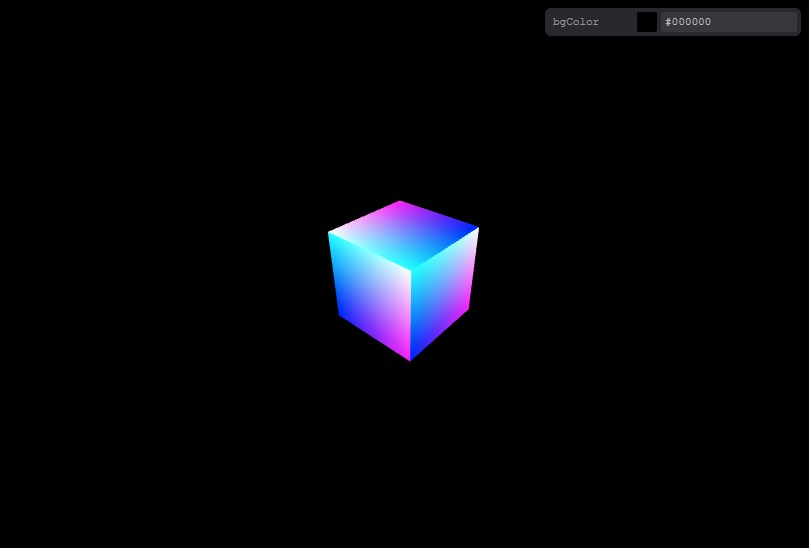
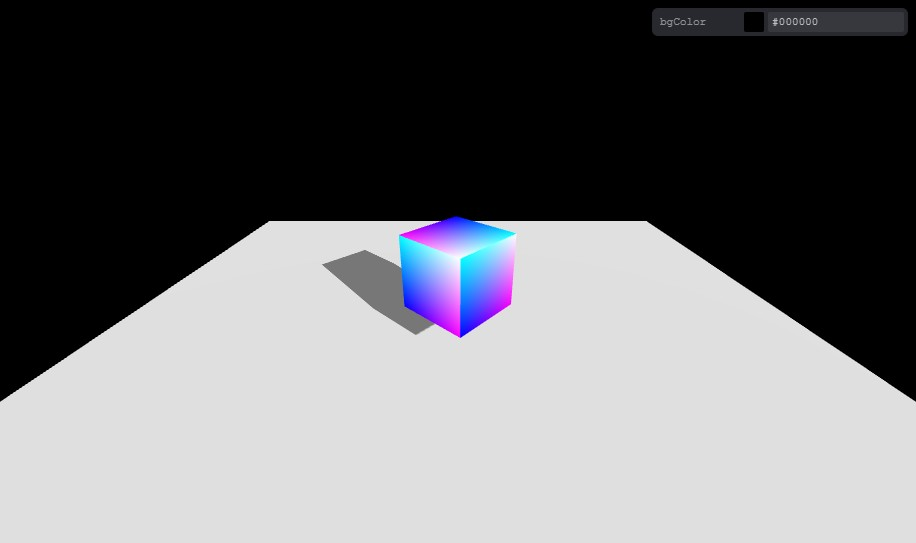
feat: lights

diff --git a/src/setup/resources.ts b/src/setup/resources.ts
@@ -1,16 +1,15 @@
 import { GLTFLoader } from 'three/examples/jsm/loaders/GLTFLoader'
 import { DRACOLoader } from 'three/examples/jsm/loaders/DRACOLoader'
-import { TextureLoader } from 'three'
+import { LoadingManager, TextureLoader } from 'three'
 
-// TODO: make example
-const dracoLoader = new DRACOLoader()
+const loadingManager = new LoadingManager()
+
+const dracoLoader = new DRACOLoader(loadingManager)
 dracoLoader.setDecoderPath('draco/')
 
-const gltfLoader = new GLTFLoader()
+const gltfLoader = new GLTFLoader(loadingManager)
 gltfLoader.setDRACOLoader(dracoLoader)
 
-const textureLoader = new TextureLoader()
-// gltfLoader.load('resource', (gltf) => {
-// })
+const textureLoader = new TextureLoader(loadingManager)
 
-export {}
+export { loadingManager }

diff --git a/src/setup/renderer.ts b/src/setup/renderer.ts
@@ -1,4 +1,4 @@
-import { WebGLRenderer } from 'three'
+import { PCFSoftShadowMap, WebGLRenderer } from 'three'
 import { camera } from './camera'
 import { emitter } from './emitter'
 import { scene } from './scene'
@@ -7,6 +7,12 @@ export const renderer = new WebGLRenderer({
   antialias: true,
 })
 document.querySelector('#app')!.appendChild(renderer.domElement)
+// renderer.physicallyCorrectLights = true
+// renderer.outputEncoding = sRGBEncoding
+// renderer.toneMapping = CineonToneMapping
+// renderer.toneMappingExposure = 1.75
+renderer.shadowMap.enabled = true
+renderer.shadowMap.type = PCFSoftShadowMap
 
 emitter.on('resize', ({ width, height }) => {
   renderer.setSize(width, height)

diff --git a/src/setup/environments.ts b/src/setup/environments.ts
@@ -1,0 +1,15 @@
+import { AmbientLight, DirectionalLight } from 'three'
+import { scene } from '@/setup/scene'
+
+const sunlight = new DirectionalLight(0xFFFFFF, 1)
+sunlight.position.set(5.6, 4.1, 6.6)
+sunlight.castShadow = true
+sunlight.shadow.camera.far = 20
+sunlight.shadow.mapSize.set(2048, 2048)
+sunlight.shadow.normalBias = 0.05
+scene.add(sunlight)
+
+const ambientLight = new AmbientLight(0xFFFFFF, 0.5)
+scene.add(ambientLight)
+
+export const environments = { sunlight, ambientLight }

diff --git a/src/setup/example/plane.ts b/src/setup/example/plane.ts
@@ -1,0 +1,13 @@
+import { Mesh, MeshStandardMaterial, PlaneGeometry } from 'three'
+import { scene } from '@/setup/scene'
+
+const geometry = new PlaneGeometry(10, 10)
+const material = new MeshStandardMaterial({ color: 0xEEEEEE })
+const plane = new Mesh(geometry, material)
+plane.rotateX(-Math.PI * 0.5)
+plane.receiveShadow = true
+plane.position.y = -1
+scene.add(plane)
+
+export { }
+

diff --git a/src/setup/camera.ts b/src/setup/camera.ts
@@ -3,7 +3,7 @@ import { emitter } from './emitter'
 import { scene } from './scene'
 
 export const camera = new PerspectiveCamera(75, window.innerWidth / window.innerHeight, 0.1, 100)
-camera.position.z = 3
+camera.position.z = 4
 camera.position.y = 2
 scene.add(camera)
 

diff --git a/src/setup/example/cube.ts b/src/setup/example/cube.ts
@@ -11,9 +11,11 @@ const material = new ShaderMaterial({
   vertexShader,
 })
 const cube = new Mesh(geometry, material)
+cube.castShadow = true
 scene.add(cube)
 
 emitter.on('update', ({ deltaTime }) => {
   cube.rotation.y += deltaTime * 0.5
 })
-export {}
+export { }
+

diff --git a/src/setup/index.ts b/src/setup/index.ts
@@ -1,8 +1,9 @@
 import './scene'
-import './renderer'
 import './camera'
-
 import './controls'
+import './environments'
+import './renderer'
+
 import './animate'
 import './sizes'
 import './resources'

diff --git a/src/main.ts b/src/main.ts
@@ -1,4 +1,5 @@
 import './style.css'
 import './setup'
 
-import '@/setup/example/exampleCube' // delete this line
+import '@/setup/example/cube'
+import '@/setup/example/plane'
